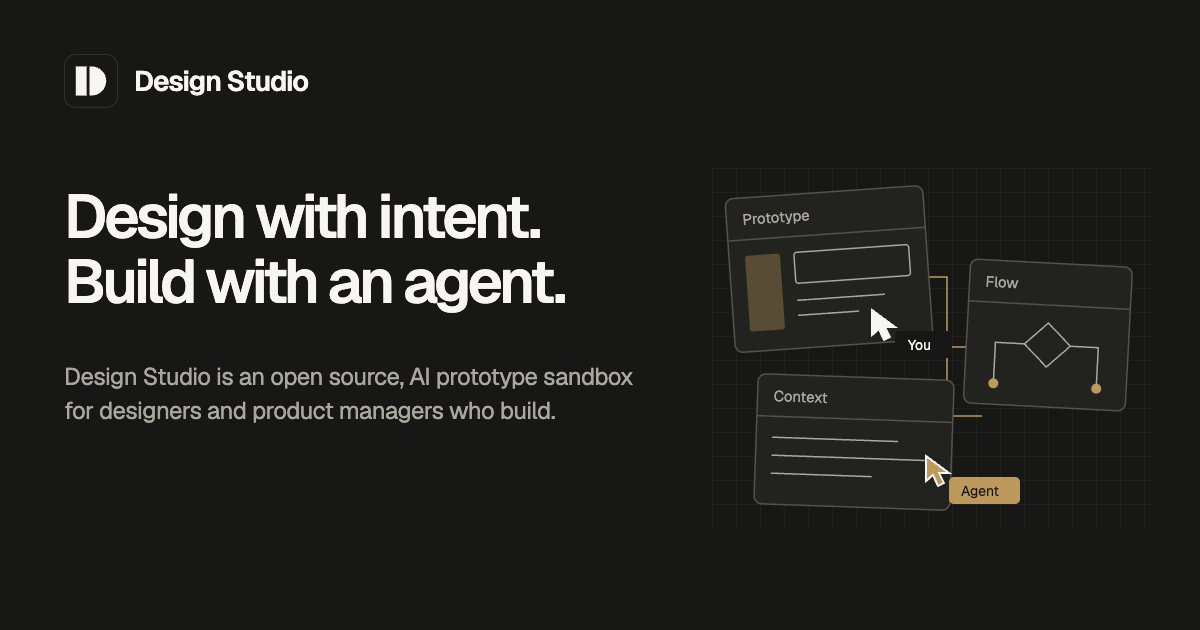
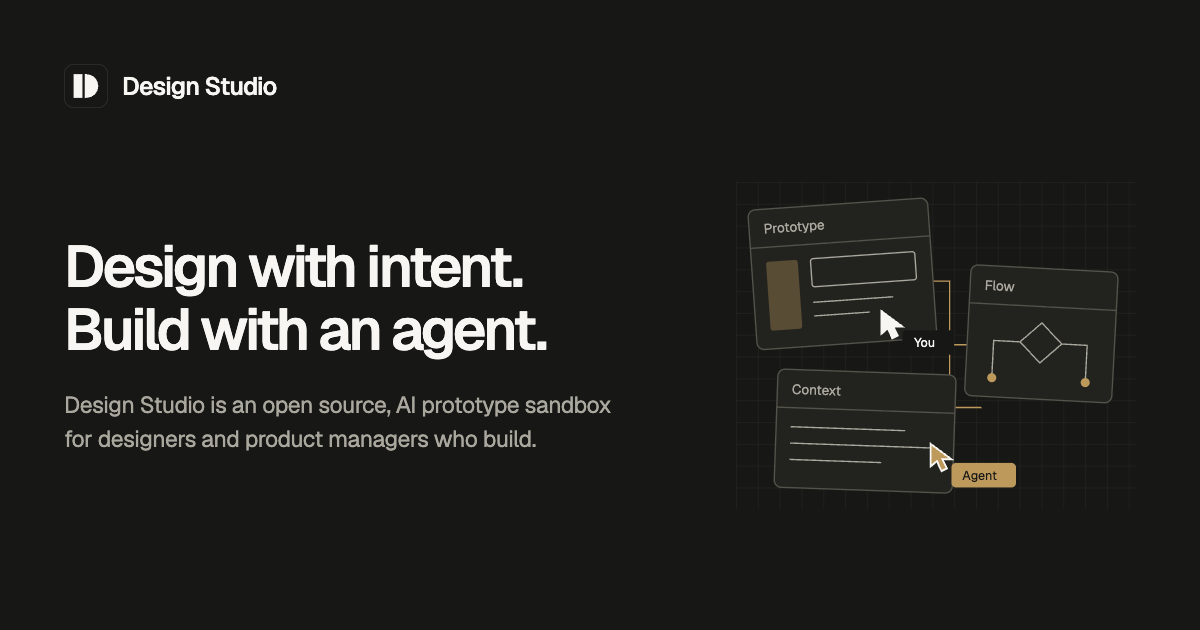
Balance sharing card typography and layout

diff --git a/src/platform/systems/studio/assets/brand/social-card.html b/src/platform/systems/studio/assets/brand/social-card.html
@@ -7,12 +7,13 @@
     @font-face { font-family: Geist; src: url('../../../../../../node_modules/@fontsource-variable/geist/files/geist-latin-wght-normal.woff2'); font-weight: 100 900; }
     * { box-sizing: border-box; }
     body { margin: 0; width: 1200px; height: 630px; overflow: hidden; background: #f7f6f2; color: #171715; font-family: Geist, sans-serif; }
-    .brand { position: absolute; top: 54px; left: 64px; display: flex; align-items: center; gap: 16px; font-size: 28px; font-weight: 600; letter-spacing: -1px; }
-    .brand img { width: 54px; height: 54px; }
+    .brand { position: absolute; top: 64px; left: 64px; display: flex; align-items: center; gap: 14px; font-size: 25px; font-weight: 550; letter-spacing: -.8px; }
+    .brand img { width: 44px; height: 44px; }
     .dark-logo { display: none; }
-    h1 { position: absolute; top: 185px; left: 64px; margin: 0; font-size: 61px; line-height: 1.06; font-weight: 560; letter-spacing: -3.5px; }
-    .description { position: absolute; top: 360px; left: 64px; width: 600px; margin: 0; font-size: 24px; line-height: 1.4; color: #65645e; letter-spacing: -.5px; }
-    .scene { position: absolute; top: 168px; right: 48px; width: 440px; height: 360px; }
+    .composition { position: absolute; top: 176px; left: 64px; right: 64px; height: 340px; display: grid; grid-template-columns: 576px 400px; gap: 96px; align-items: center; }
+    h1 { margin: 0; font-size: 58px; line-height: 1.08; font-weight: 560; letter-spacing: -3px; }
+    .description { max-width: 560px; margin: 28px 0 0; font-size: 23px; line-height: 1.45; color: #65645e; letter-spacing: -.45px; }
+    .scene { display: block; width: 400px; height: auto; }
     .grid { stroke: #e7e5de; stroke-width: 1; }
     .card { fill: #fcfbf8; stroke: #c9c6bd; stroke-width: 1.5; }
     .line { stroke: #c9c6bd; stroke-width: 1.5; }
@@ -31,8 +32,11 @@
 </head>
 <body>
   <div class="brand"><img class="light-logo" src="../../../../../../public/brand/design-studio-light.svg" alt=""><img class="dark-logo" src="../../../../../../public/brand/design-studio-dark.svg" alt="">Design Studio</div>
-  <h1>Design with intent.<br>Build with an agent.</h1>
-  <p class="description">Design Studio is an open source, AI prototype sandbox for designers and product managers who build.</p>
+  <main class="composition">
+  <div class="copy">
+    <h1>Design with intent.<br>Build with an agent.</h1>
+    <p class="description">Design Studio is an open source, AI prototype sandbox for designers and product managers who build.</p>
+  </div>
   <svg class="scene" viewBox="0 0 440 360" aria-label="Connected prototype, context, and flow cards">
     <defs><pattern id="grid" width="24" height="24" patternUnits="userSpaceOnUse"><path class="grid" d="M24 0H0V24" fill="none"/></pattern></defs>
     <rect width="440" height="360" fill="url(#grid)"/>
@@ -58,5 +62,6 @@
     <g transform="translate(160 142)"><path fill="currentColor" stroke="#f7f6f2" stroke-width="2" d="M0 0L0 25L7 19L12 30L18 27L13 17L23 17Z"/><rect x="23" y="21" width="57" height="27" rx="5" fill="#171715"/><text x="36" y="40" fill="#f7f6f2" font-size="14">You</text></g>
     <g transform="translate(214 288)"><path class="accent" stroke="#f7f6f2" stroke-width="2" d="M0 0L0 25L7 19L12 30L18 27L13 17L23 17Z"/><rect class="accent" x="23" y="21" width="71" height="27" rx="5"/><text x="35" y="40" fill="#171715" font-size="14">Agent</text></g>
   </svg>
+  </main>
 </body>
 </html>
